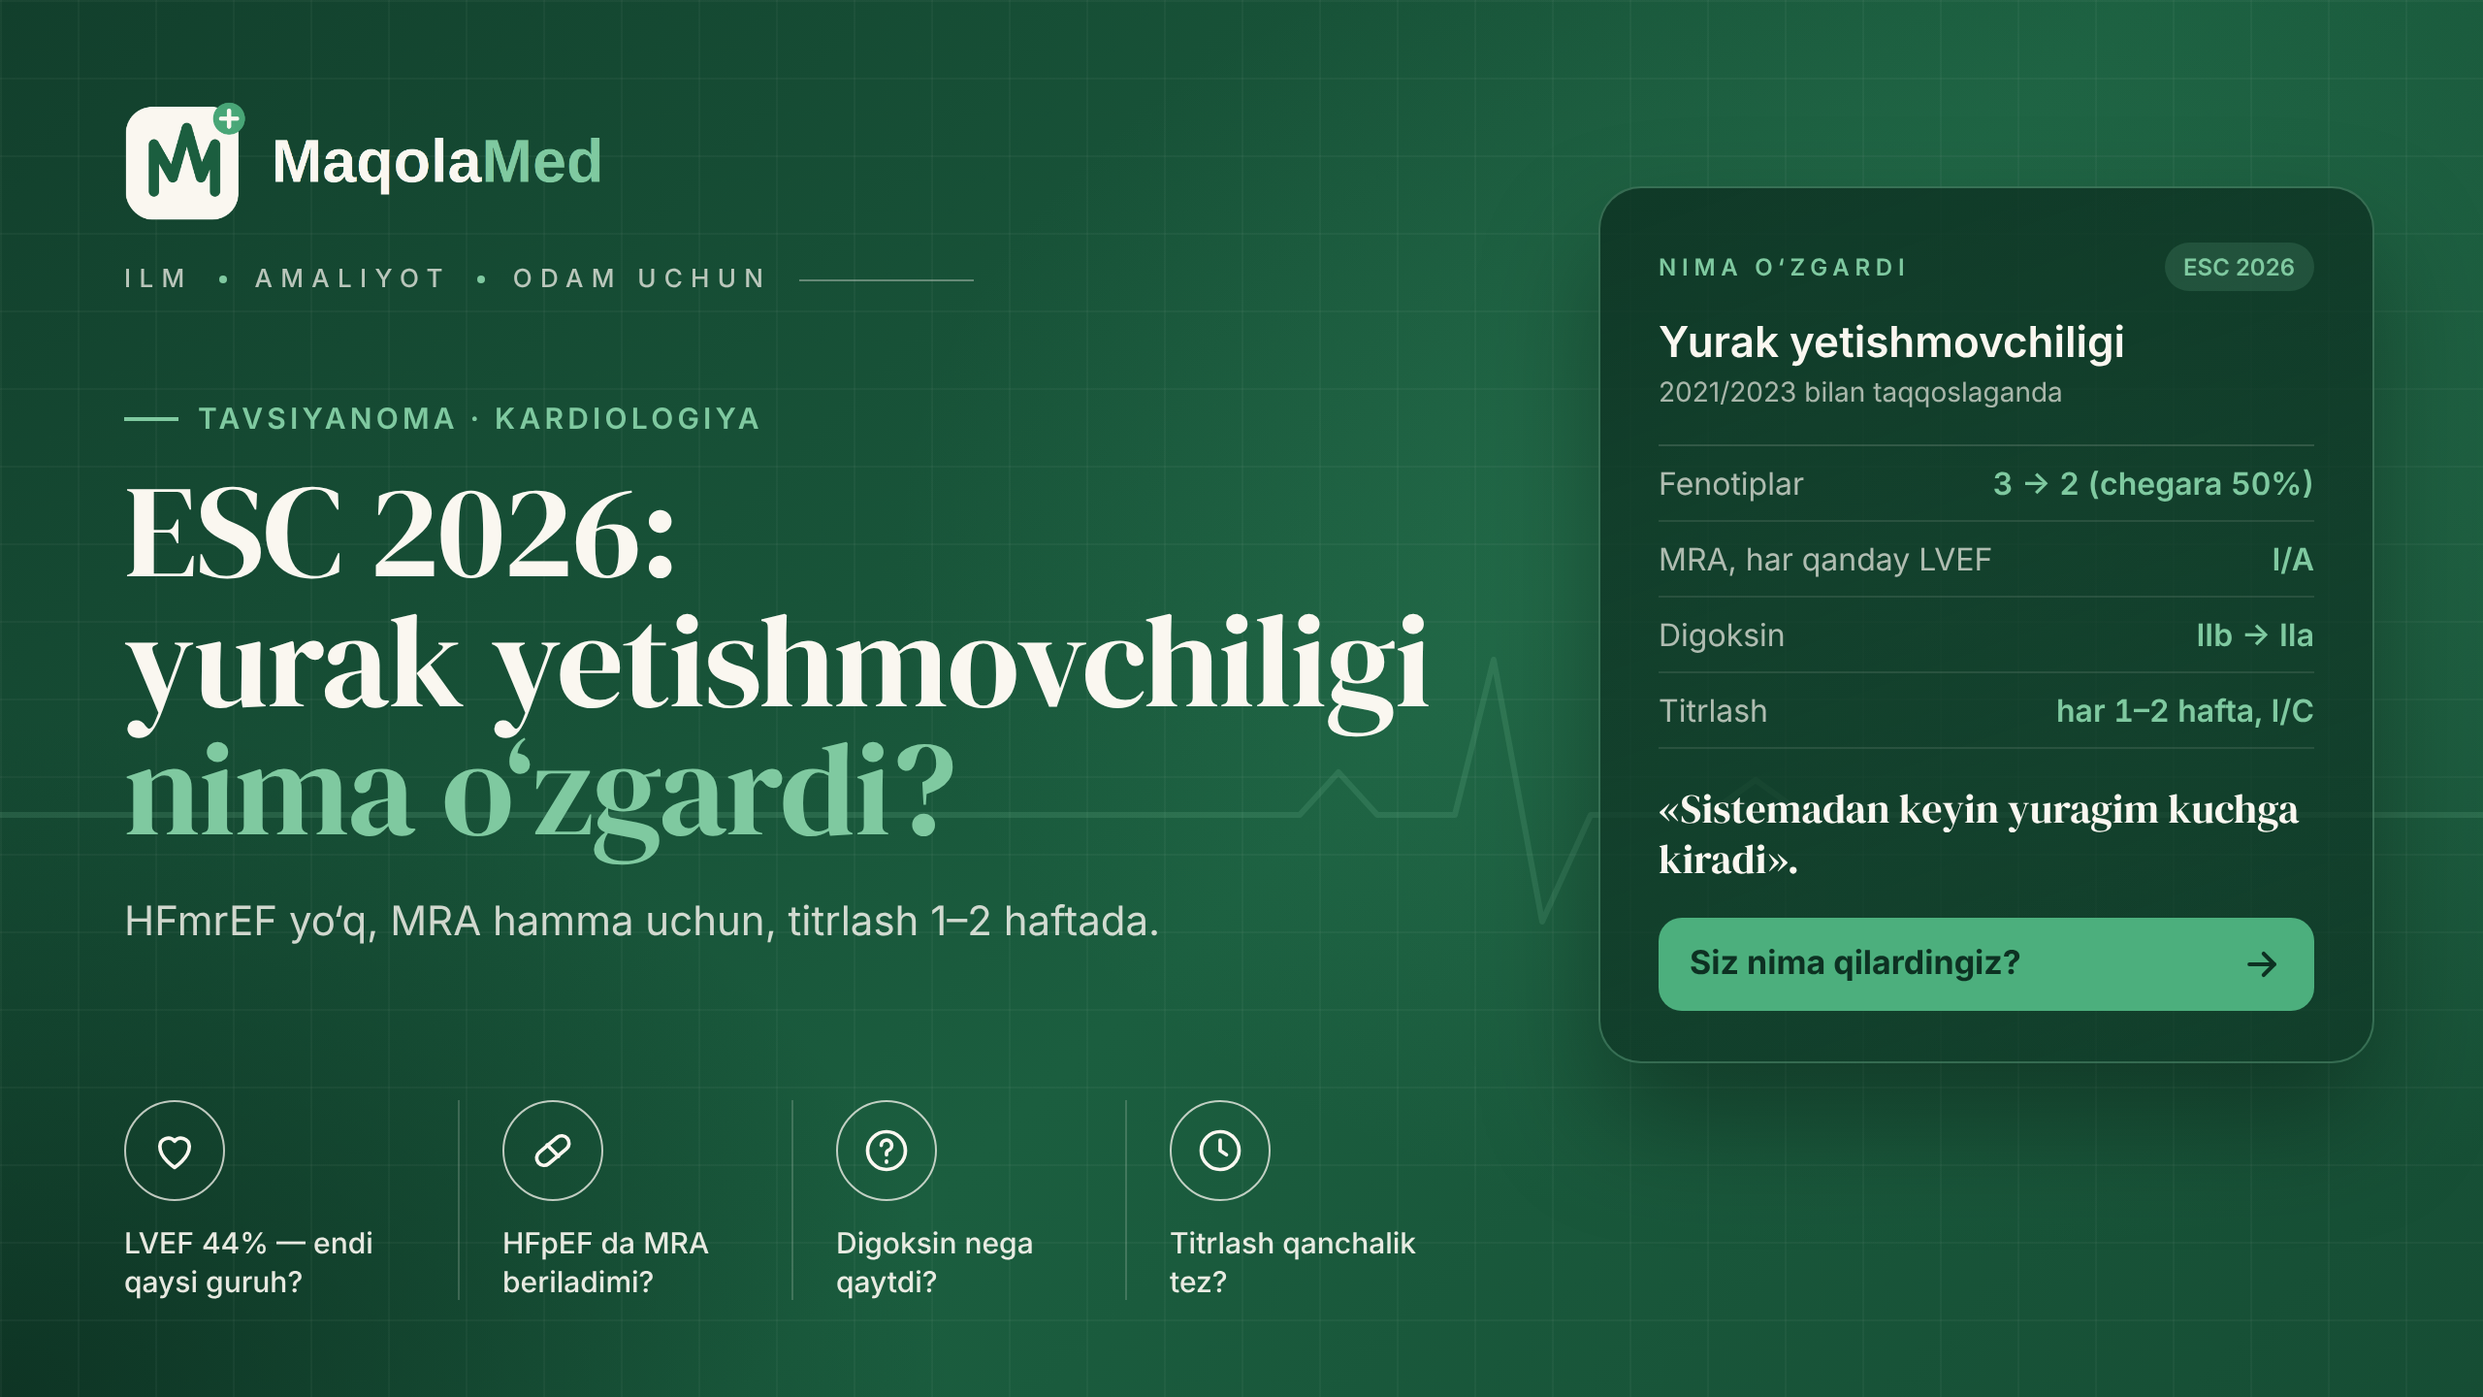
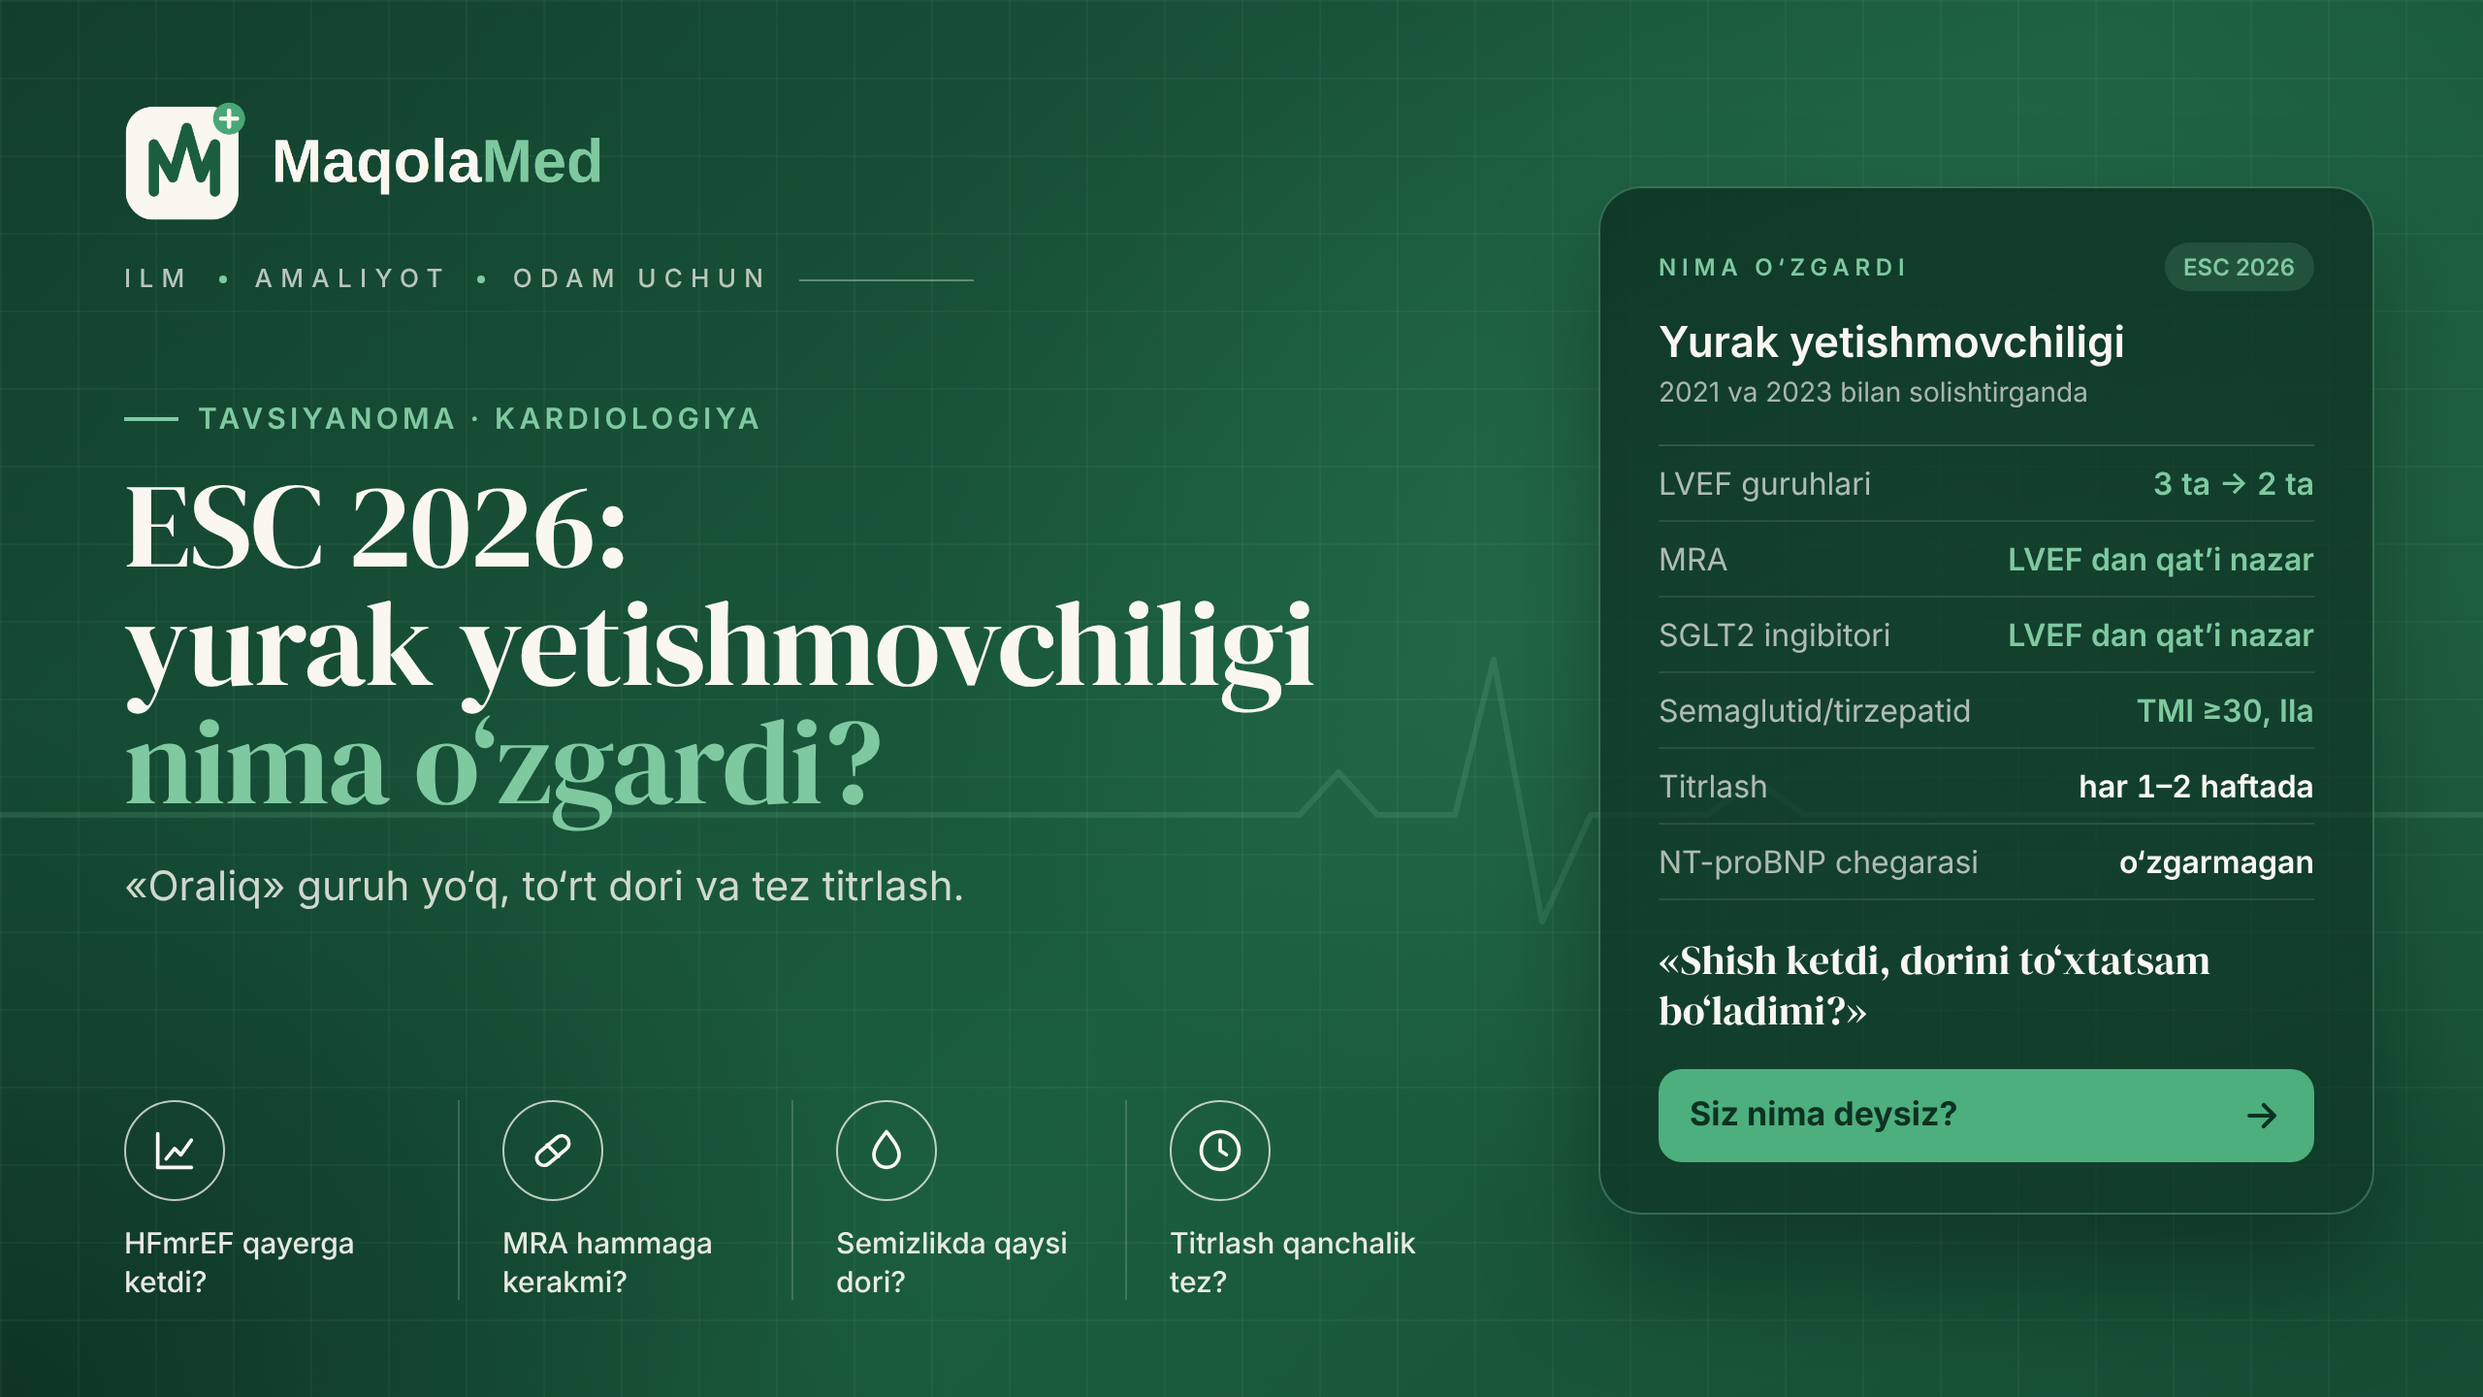
30-dekabr maqolasi qayta yozildi (v2, humanizer): ESC 2026 yurak yetishmovchiligi — muqovalar, 1 rasm

diff --git a/_manba/2026-12-30/1-rasm.html b/_manba/2026-12-30/1-rasm.html
@@ -31,18 +31,17 @@ td.warn{background:var(--redbg)}
 .note b{color:var(--deep)}
 .src{position:absolute;right:56px;bottom:12px;font-size:12px;color:var(--muted)}
 .arrow{stroke:var(--emerald);stroke-width:2.2;fill:none}
-</style></head><body>
-<style>:root{--H:900px}.st{position:absolute;left:56px;width:1168px;display:grid;grid-template-columns:180px 1fr 130px;gap:0;align-items:stretch}
-.st .t{background:var(--emerald);color:var(--cream);border-radius:14px 0 0 14px;padding:16px 18px;font-weight:700;font-size:17px;display:flex;align-items:center}
-.st .b{background:#fff;border:1.5px solid #BFDCCB;border-left:none;border-right:none;padding:14px 20px;font-size:16px;line-height:1.38}
-.st .b b{display:block;font-size:17px;color:var(--deep);margin-bottom:2px}
-.st .c{background:var(--tint);border-radius:0 14px 14px 0;border:1.5px solid #BFDCCB;border-left:none;display:flex;align-items:center;justify-content:center;font-weight:700;color:var(--emerald);font-size:17px}</style>
-<div class="fig"><div class="top"><h1>ESC 2026: kasalxonadan keyingi 6 hafta<br><em>poydevor davoni qanday quramiz?</em></h1><div class="brand"><img src="icon.png" alt=""><span>Maqola<b>Med</b></span></div></div>
-<div class="st" style="top:170px"><div class="t">Kasalxonada</div><div class="b"><b>Dekompensatsiya → dastlabki stabillashuv</b>SGLT2 ingibitorini shu yerda boshlang</div><div class="c">I / B1</div></div>
-<div class="st" style="top:268px"><div class="t">Chiqishdan oldin</div><div class="b"><b>Beta-blokator · ARNI yoki AAF ingibitori · MRA</b>Past dozada boshlanadi; furosemid — faqat dimlanish uchun</div><div class="c">I / B2</div></div>
-<div class="st" style="top:366px"><div class="t">Har 1–2 hafta</div><div class="b"><b>Ko‘rik: simptomlar, AB, YuUS, kaliy, kreatinin</b>Imkon bo‘lsa — dozani oshiring</div><div class="c">I / C</div></div>
-<div class="st" style="top:464px"><div class="t">~6 hafta</div><div class="b"><b>Maqsadli yoki eng yuqori ko‘tarilgan doza</b>STRONG-HF: 180 kunda o‘lim yoki qayta yotqizish 15,2% va 23,3% [6]</div><div class="c">I / B2</div></div>
-<div class="st" style="top:562px"><div class="t">Yaxshilansa ham</div><div class="b"><b>Davo to‘xtatilmaydi</b>Simptomsiz bemorda ham, LVEF yaxshilanganda ham</div><div class="c">I / C</div></div>
-<div class="node n-red" style="position:absolute;left:56px;top:672px;width:1168px"><b style="color:#B5513F">Poydevor davo o‘rnini bosmaydi</b>Meldoniy, inozin va «sistema» kurslari tavsiyanomada yo‘q. Furosemid simptomlarni yengillatadi, prognozni o‘zgartirmaydi.</div>
-<div class="note"><b>Yangi tasnif:</b> LVEF &lt;50% — HFrEF, ≥50% — HFpEF. LVEF 41–49% bo‘lgan bemor endi to‘liq poydevor davoga nomzod [1].</div>
-<div class="src">I/B1 va boshqalar — ESC tavsiya klassi va dalil darajasi. Raqamlar manbalar ro‘yxatiga ishora qiladi.</div></div></body></html>
+</style></head><body><style>:root{--H:900px} td{font-size:15.5px;padding:11px 16px} table{border-spacing:0 7px}</style>
+<div class="fig"><div class="top"><h1>ESC 2026 yurak yetishmovchiligi:<br><em>nima o‘zgardi?</em></h1><div class="brand"><img src="icon.png" alt=""><span>Maqola<b>Med</b></span></div></div>
+<table><tr><th style="width:22%">Mavzu</th><th style="width:30%">Avval (2021/2023) [2, 3]</th><th style="width:34%">Hozir (ESC 2026) [1]</th><th>Sinf, daraja</th></tr>
+<tr><td>LVEF guruhlari</td><td class="same">3 ta: ≤40% HFrEF, 41–49% HFmrEF, ≥50% HFpEF</td><td class="new"><span class="badge b-new">2 TA</span>&lt;50% HFrEF, ≥50% HFpEF</td><td class="new">—</td></tr>
+<tr><td>MRA</td><td class="same">HFrEF: I; HFmrEF: IIb</td><td class="new"><span class="badge b-new">HAMMAGA</span>Simptomli YuY, LVEF dan qat’i nazar</td><td class="new">I, A</td></tr>
+<tr><td>SGLT2 ingibitori</td><td class="same">HFrEF (2021); HFmrEF va HFpEF (2023, I, A)</td><td class="new"><span class="badge b-new">HAMMAGA</span>LVEF dan qat’i nazar; kasalxonada boshlash (I, B1)</td><td class="new">I, A</td></tr>
+<tr><td>Semaglutid yoki tirzepatid</td><td class="same">Tavsiya yo‘q edi</td><td class="new"><span class="badge b-amb">YANGI</span>LVEF ≥45% va TMI ≥30 kg/m²</td><td class="new">IIa, B1</td></tr>
+<tr><td>Titrlash</td><td class="same">Intensiv strategiya (2023)</td><td class="new">Chiqishdan oldin boshlash, 6 hafta tez-tez ko‘rik (I, B2); har 1–2 haftada oshirish (I, C)</td><td class="new">I, B2 / I, C</td></tr>
+<tr><td>Temir tanqisligi</td><td class="same">Ferritin &lt;100 yoki 100–299 va TSAT &lt;20%</td><td class="new"><span class="badge b-amb">TAKLIF</span>TSAT &lt;20%</td><td class="new">—</td></tr>
+<tr><td>Atamalar</td><td class="same">«O‘tkir YuY», GDMT</td><td class="new">«Dekompensatsiyalangan YuY», FMT, A–D bosqichlari</td><td class="new">—</td></tr>
+<tr><td>Dalil darajalari</td><td class="same">A, B, C</td><td class="new">A, B1, B2, C</td><td class="new">—</td></tr>
+</table>
+<div class="note"><b>O‘zgarmagan:</b> NT-proBNP &lt;125 pg/ml va BNP &lt;35 pg/ml bo‘lsa YuY ehtimoli past. HFrEF da FMT: beta-bloker, APF ingibitori yoki ARNI, MRA, SGLT2 ingibitori (har biri I, A).</div>
+<div class="src">LVEF — chap qorincha chiqarish fraksiyasi; MRA — mineralokortikoid retseptor antagonisti; FMT — asosiy dori davosi; TSAT — transferrin to‘yinishi; TMI — tana massasi indeksi</div></div></body></html>

diff --git a/_manba/2026-12-30/muqova-16x9.html b/_manba/2026-12-30/muqova-16x9.html
@@ -53,7 +53,9 @@ h1 em{font-style:normal;color:var(--mint)}
 .quote{margin-top:18px;font-family:"DM Serif Display",serif;font-size:21px;line-height:1.25;color:var(--cream)}
 .ask{margin-top:16px;display:flex;align-items:center;justify-content:space-between;padding:13px 16px;border-radius:12px;background:var(--green);color:#0D3122;font-weight:700;font-size:17px}
 .ask svg{width:22px;height:22px;stroke:#0D3122;fill:none;stroke-width:2.2;stroke-linecap:round;stroke-linejoin:round}
-h1{font-size:68px}
+
+
+h1{font-size:62px}
 </style>
 </head>
 <body><div class="cover"><div class="grid"></div>
@@ -62,8 +64,8 @@ h1{font-size:68px}
 <div class="tag" style="margin-top:22px"><span>ILM</span><i></i><span>AMALIYOT</span><i></i><span>ODAM UCHUN</span><span class="line"></span></div>
 <div class="kicker"><span></span>Tavsiyanoma · Kardiologiya</div>
 <h1>ESC 2026:<br>yurak yetishmovchiligi<br><em>nima o‘zgardi?</em></h1>
-<div class="sub">HFmrEF yo‘q, MRA hamma uchun, titrlash 1–2 haftada.</div></div>
-<div class="points"><div class="pt"><div class="ic"><svg viewBox="0 0 24 24"><path d="M12 20s-7-4.5-7-10a4 4 0 0 1 7-2.5A4 4 0 0 1 19 10c0 5.5-7 10-7 10z"/></svg></div><p>LVEF 44% — endi qaysi guruh?</p></div><div class="pt"><div class="ic"><svg viewBox="0 0 24 24"><rect x="3" y="8.5" width="18" height="7" rx="3.5" transform="rotate(-40 12 12)"/><path d="M9.3 9.3l5.4 5.4"/></svg></div><p>HFpEF da MRA beriladimi?</p></div><div class="pt"><div class="ic"><svg viewBox="0 0 24 24"><circle cx="12" cy="12" r="9"/><path d="M9.5 9.5a2.5 2.5 0 1 1 3.5 2.3c-.7.3-1 .8-1 1.5v.7"/><path d="M12 17v.5"/></svg></div><p>Digoksin nega qaytdi?</p></div><div class="pt"><div class="ic"><svg viewBox="0 0 24 24"><circle cx="12" cy="12" r="9"/><path d="M12 7v5l3 2"/></svg></div><p>Titrlash qanchalik tez?</p></div></div>
+<div class="sub">«Oraliq» guruh yo‘q, to‘rt dori va tez titrlash.</div></div>
+<div class="points"><div class="pt"><div class="ic"><svg viewBox="0 0 24 24"><path d="M4 20V4"/><path d="M4 20h16"/><path d="M8 16l4-5 3 3 5-7"/></svg></div><p>HFmrEF qayerga ketdi?</p></div><div class="pt"><div class="ic"><svg viewBox="0 0 24 24"><rect x="3" y="8.5" width="18" height="7" rx="3.5" transform="rotate(-40 12 12)"/><path d="M9.3 9.3l5.4 5.4"/></svg></div><p>MRA hammaga kerakmi?</p></div><div class="pt"><div class="ic"><svg viewBox="0 0 24 24"><path d="M12 3c3 4 6 7.5 6 11a6 6 0 0 1-12 0c0-3.5 3-7 6-11z"/></svg></div><p>Semizlikda qaysi dori?</p></div><div class="pt"><div class="ic"><svg viewBox="0 0 24 24"><circle cx="12" cy="12" r="9"/><path d="M12 7v5l3 2"/></svg></div><p>Titrlash qanchalik tez?</p></div></div>
 <div class="card"><div class="ch"><span class="lbl">NIMA O‘ZGARDI</span><span class="pill">ESC 2026</span></div>
-<h3>Yurak yetishmovchiligi<small>2021/2023 bilan taqqoslaganda</small></h3><div class="rows"><div class="row"><span>Fenotiplar</span><span class="ok">3 → 2 (chegara 50%)</span></div><div class="row"><span>MRA, har qanday LVEF</span><span class="ok">I/A</span></div><div class="row"><span>Digoksin</span><span class="ok">IIb → IIa</span></div><div class="row"><span>Titrlash</span><span class="ok">har 1–2 hafta, I/C</span></div></div><div class="quote">«Sistemadan keyin yuragim kuchga kiradi».</div><div class="ask">Siz nima qilardingiz?<svg viewBox="0 0 24 24"><path d="M5 12h14"/><path d="M13 6l6 6-6 6"/></svg></div></div>
+<h3>Yurak yetishmovchiligi<small>2021 va 2023 bilan solishtirganda</small></h3><div class="rows"><div class="row"><span>LVEF guruhlari</span><span class="ok">3 ta → 2 ta</span></div><div class="row"><span>MRA</span><span class="ok">LVEF dan qat’i nazar</span></div><div class="row"><span>SGLT2 ingibitori</span><span class="ok">LVEF dan qat’i nazar</span></div><div class="row"><span>Semaglutid/tirzepatid</span><span class="ok">TMI ≥30, IIa</span></div><div class="row"><span>Titrlash</span><span class="">har 1–2 haftada</span></div><div class="row"><span>NT-proBNP chegarasi</span><span class="">o‘zgarmagan</span></div></div><div class="quote">«Shish ketdi, dorini to‘xtatsam bo‘ladimi?»</div><div class="ask">Siz nima deysiz?<svg viewBox="0 0 24 24"><path d="M5 12h14"/><path d="M13 6l6 6-6 6"/></svg></div></div>
 </div></body></html>

diff --git a/_manba/2026-12-30/muqova-instagram-4x5.html b/_manba/2026-12-30/muqova-instagram-4x5.html
@@ -69,6 +69,10 @@ h1{font-size:96px;margin-top:18px}
 .pt{width:auto;flex:1}
 .pt p{font-size:17px}
 
+
+
+
+h1{font-size:86px}
 </style>
 </head>
 <body><div class="cover"><div class="grid"></div>
@@ -76,9 +80,9 @@ h1{font-size:96px;margin-top:18px}
 <div class="left"><div class="brand"><img src="logo_dark_bg.png" alt="MaqolaMed"></div>
 <div class="tag" style="margin-top:22px"><span>ILM</span><i></i><span>AMALIYOT</span><i></i><span>ODAM UCHUN</span><span class="line"></span></div>
 <div class="kicker"><span></span>Tavsiyanoma · Kardiologiya</div>
-<h1>ESC 2026: yurak<br>yetishmovchiligi<br><em>nima o‘zgardi?</em></h1>
-<div class="sub">HFmrEF yo‘q, MRA hamma uchun, titrlash 1–2 haftada.</div></div>
-<div class="points"><div class="pt"><div class="ic"><svg viewBox="0 0 24 24"><path d="M12 20s-7-4.5-7-10a4 4 0 0 1 7-2.5A4 4 0 0 1 19 10c0 5.5-7 10-7 10z"/></svg></div><p>LVEF 44% — endi qaysi guruh?</p></div><div class="pt"><div class="ic"><svg viewBox="0 0 24 24"><rect x="3" y="8.5" width="18" height="7" rx="3.5" transform="rotate(-40 12 12)"/><path d="M9.3 9.3l5.4 5.4"/></svg></div><p>HFpEF da MRA beriladimi?</p></div><div class="pt"><div class="ic"><svg viewBox="0 0 24 24"><circle cx="12" cy="12" r="9"/><path d="M9.5 9.5a2.5 2.5 0 1 1 3.5 2.3c-.7.3-1 .8-1 1.5v.7"/><path d="M12 17v.5"/></svg></div><p>Digoksin nega qaytdi?</p></div><div class="pt"><div class="ic"><svg viewBox="0 0 24 24"><circle cx="12" cy="12" r="9"/><path d="M12 7v5l3 2"/></svg></div><p>Titrlash qanchalik tez?</p></div></div>
+<h1>ESC 2026:<br>yurak yetishmovchiligi<br><em>nima o‘zgardi?</em></h1>
+<div class="sub">«Oraliq» guruh yo‘q, to‘rt dori va tez titrlash.</div></div>
+<div class="points"><div class="pt"><div class="ic"><svg viewBox="0 0 24 24"><path d="M4 20V4"/><path d="M4 20h16"/><path d="M8 16l4-5 3 3 5-7"/></svg></div><p>HFmrEF qayerga ketdi?</p></div><div class="pt"><div class="ic"><svg viewBox="0 0 24 24"><rect x="3" y="8.5" width="18" height="7" rx="3.5" transform="rotate(-40 12 12)"/><path d="M9.3 9.3l5.4 5.4"/></svg></div><p>MRA hammaga kerakmi?</p></div><div class="pt"><div class="ic"><svg viewBox="0 0 24 24"><path d="M12 3c3 4 6 7.5 6 11a6 6 0 0 1-12 0c0-3.5 3-7 6-11z"/></svg></div><p>Semizlikda qaysi dori?</p></div><div class="pt"><div class="ic"><svg viewBox="0 0 24 24"><circle cx="12" cy="12" r="9"/><path d="M12 7v5l3 2"/></svg></div><p>Titrlash qanchalik tez?</p></div></div>
 <div class="card"><div class="ch"><span class="lbl">NIMA O‘ZGARDI</span><span class="pill">ESC 2026</span></div>
-<h3>Yurak yetishmovchiligi<small>2021/2023 bilan taqqoslaganda</small></h3><div class="rows"><div class="row"><span>Fenotiplar</span><span class="ok">3 → 2 (chegara 50%)</span></div><div class="row"><span>MRA, har qanday LVEF</span><span class="ok">I/A</span></div><div class="row"><span>Digoksin</span><span class="ok">IIb → IIa</span></div><div class="row"><span>Titrlash</span><span class="ok">har 1–2 hafta, I/C</span></div></div><div class="quote">«Sistemadan keyin yuragim kuchga kiradi».</div><div class="ask">Siz nima qilardingiz?<svg viewBox="0 0 24 24"><path d="M5 12h14"/><path d="M13 6l6 6-6 6"/></svg></div></div>
+<h3>Yurak yetishmovchiligi<small>2021 va 2023 bilan solishtirganda</small></h3><div class="rows"><div class="row"><span>LVEF guruhlari</span><span class="ok">3 ta → 2 ta</span></div><div class="row"><span>MRA</span><span class="ok">LVEF dan qat’i nazar</span></div><div class="row"><span>SGLT2 ingibitori</span><span class="ok">LVEF dan qat’i nazar</span></div><div class="row"><span>Semaglutid/tirzepatid</span><span class="ok">TMI ≥30, IIa</span></div><div class="row"><span>Titrlash</span><span class="">har 1–2 haftada</span></div><div class="row"><span>NT-proBNP chegarasi</span><span class="">o‘zgarmagan</span></div></div><div class="quote">«Shish ketdi, dorini to‘xtatsam bo‘ladimi?»</div><div class="ask">Siz nima deysiz?<svg viewBox="0 0 24 24"><path d="M5 12h14"/><path d="M13 6l6 6-6 6"/></svg></div></div>
 </div></body></html>
